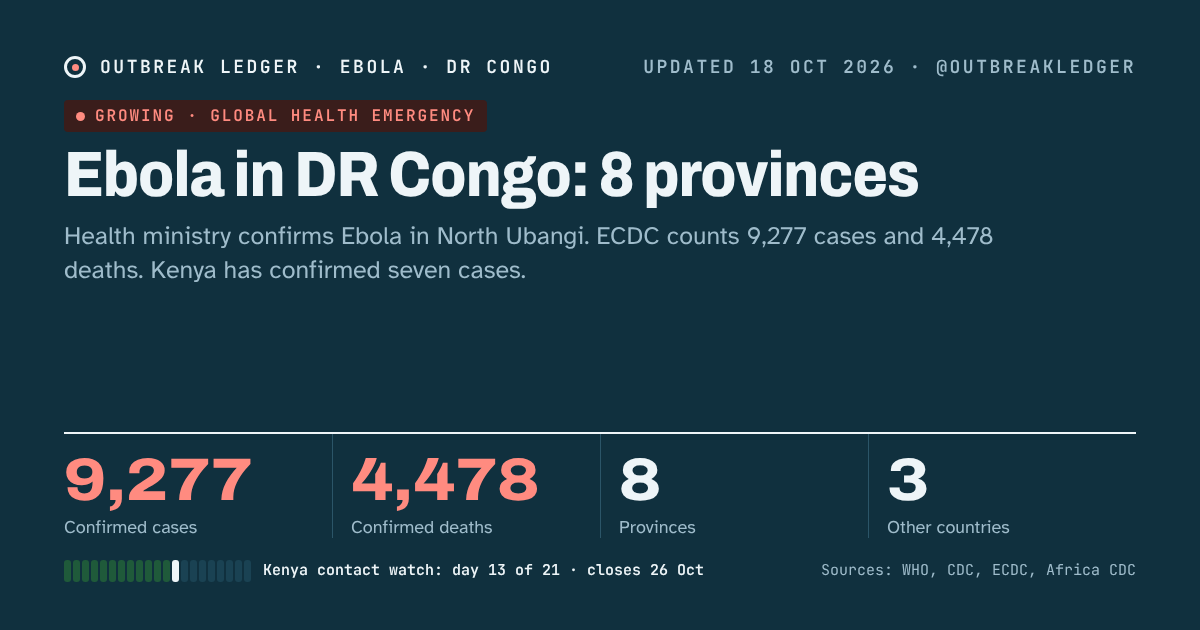
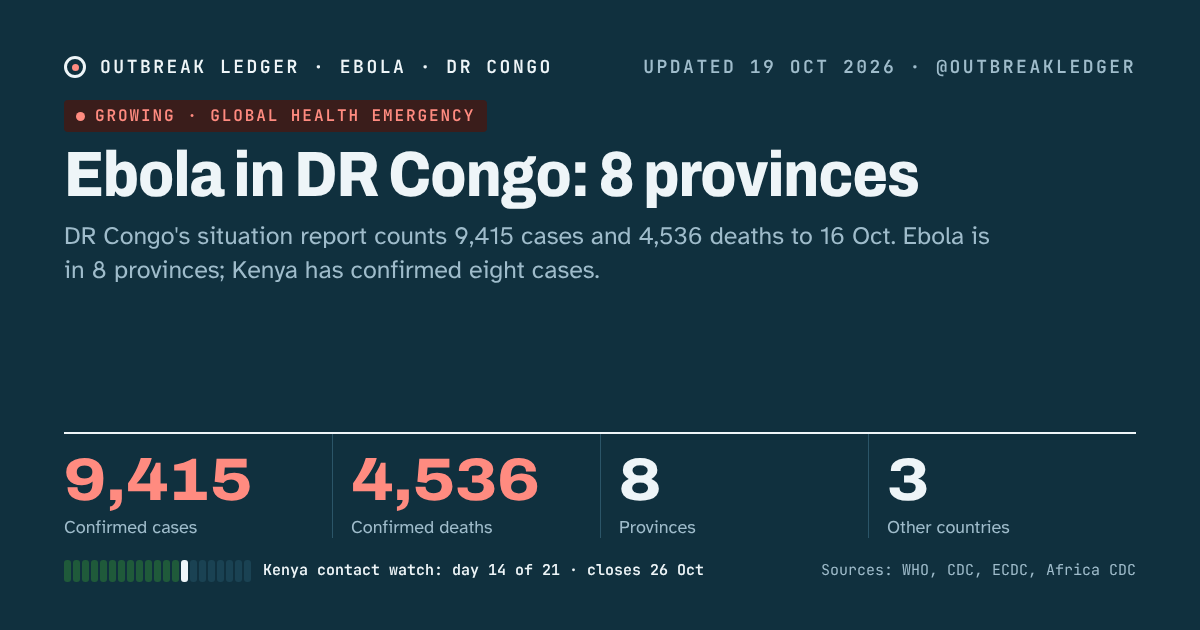
Trackers: Ebola DR Congo 9,415 cases / 4,536 deaths to 16 Oct, Kenya 8 cases; others checked, no change
Claude-Session: https://claude.ai/code/session_01DjK934MGj4uKY77RiACNyU

diff --git a/site/ebola/share/latest-post.md b/site/ebola/share/latest-post.md
@@ -1,5 +1,5 @@
-Ebola in DR Congo: the health ministry has confirmed cases in an eighth province, North Ubangi (two cases, one fatal, per AP). ECDC counts 9,277 cases and 4,478 deaths (to 14 Oct). Kenya has confirmed 7 cases, with no community transmission reported.
+Ebola in DR Congo: the latest situation report counts 9,415 confirmed cases and 4,536 deaths to 16 Oct (Anadolu, Xinhua). The outbreak is now in 8 provinces. Kenya has confirmed 8 cases.
 
 https://nhlebe1.github.io/ai-scheduler-platform/ebola/
 
-Sources: AP (18 Oct), ECDC (15 Oct), Kenya Ministry of Health via Al Jazeera (17 Oct).
+Sources: Anadolu and Xinhua on DR Congo's situation report (16 Oct), AP (18 Oct), Kenya Ministry of Health via Al Jazeera and The Washington Post (18-19 Oct).
